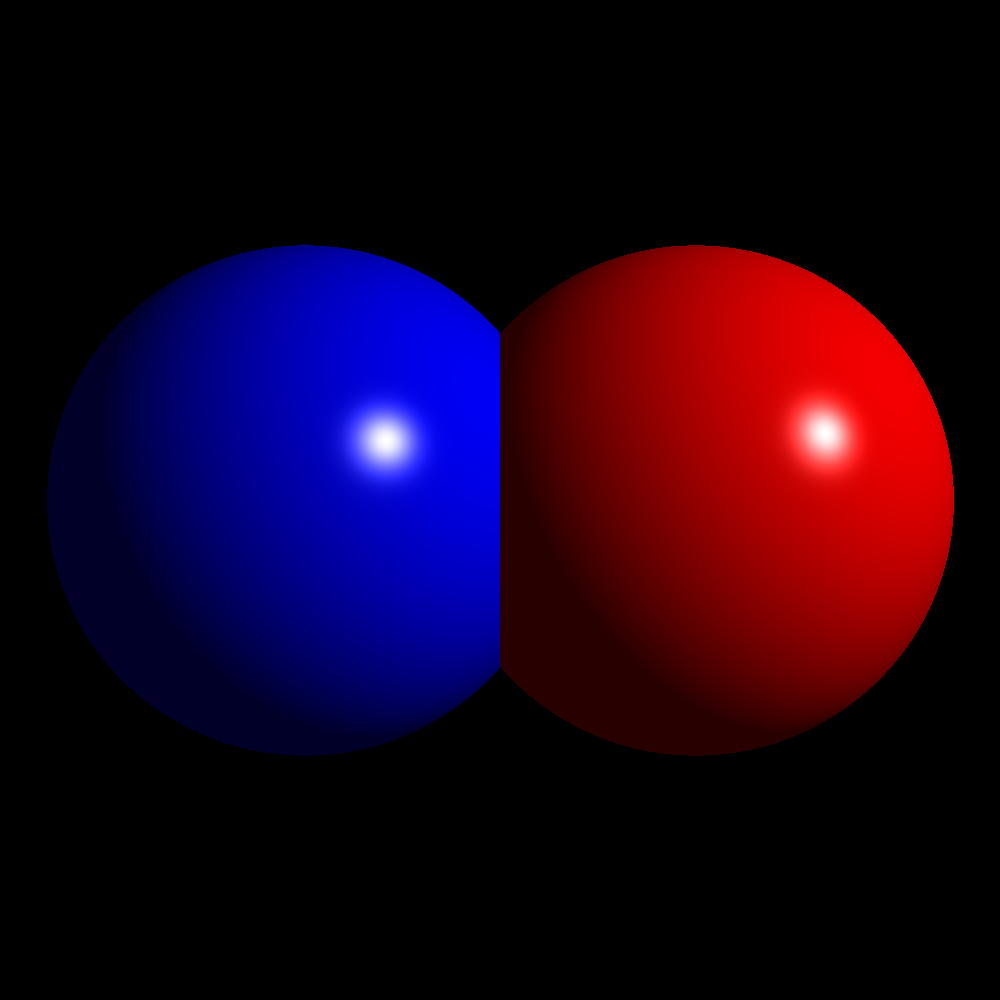
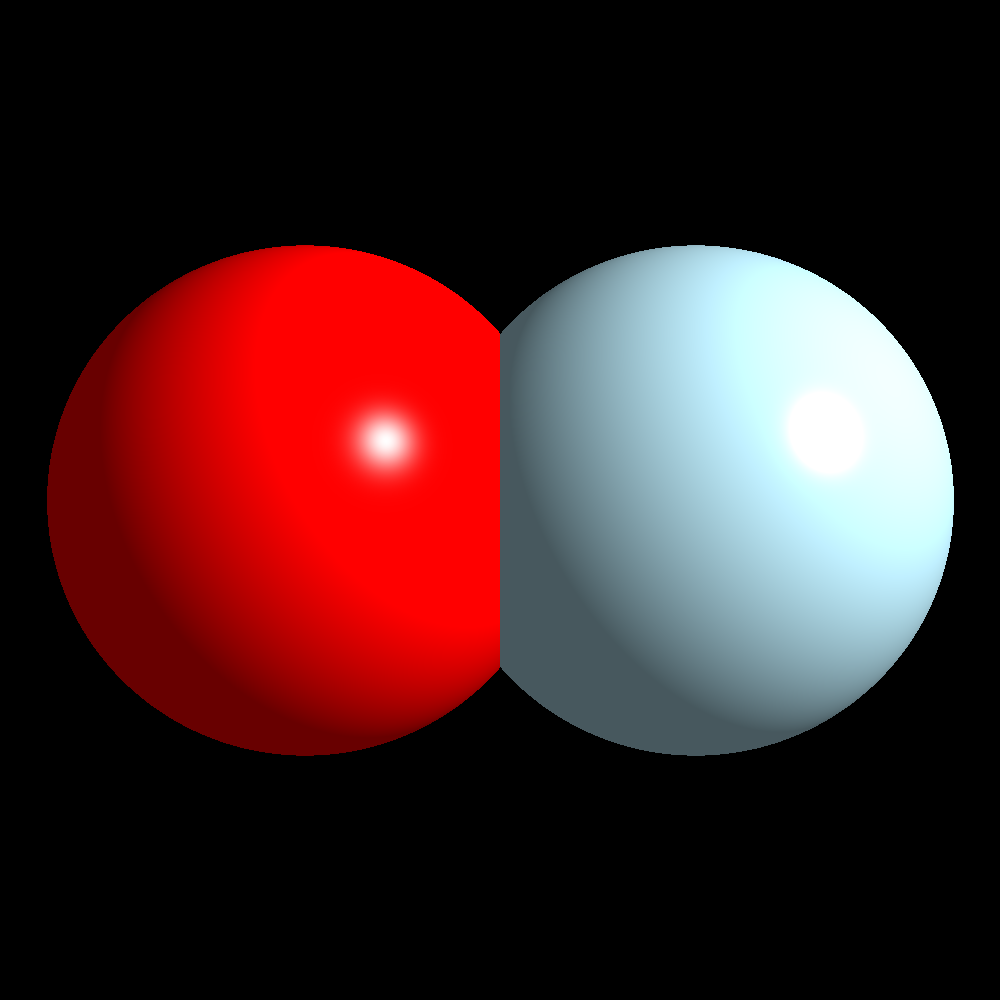
Switch to using System.Drawing Color

diff --git a/src/Tracer.Console/Program.cs b/src/Tracer.Console/Program.cs
@@ -1,24 +1,30 @@
 using System;
 using System.Collections.Generic;
+using System.Drawing;
 using System.IO;
 using SixLabors.ImageSharp;
 using SixLabors.ImageSharp.PixelFormats;
 using Tracer.ImageSharp;
 
-namespace Tracer.Console
+namespace Tracer
 {
     class Program
     {
         static void Main(string[] args)
         {
             AmbientLight.Color = Vector.CreateVector3(0.2, 0.2, 0.2);
+            // AmbientLight.Color = Color.DimGray.ToVector();
 
-            var sphere1 = new Sphere(Vector.CreateVector3(0.8, 0.0, 0), Vector.CreateVector3(1, 1, 1), 150)
+            var sphere1 = new Sphere(
+                Color.LightBlue,
+                Color.White, 150)
             {
                 Name = "Yellow Sphere",
             };
-            sphere1.Model.Translate(-0.75, 0, 0);	
-            var sphere2 = new Sphere(Vector.CreateVector3(0.0, 0, 0.8), Vector.CreateVector3(1, 1, 1), 150)
+            sphere1.Model.Translate(-0.75, 0, 0.0);	
+            var sphere2 = new Sphere(
+                Color.Red,
+                Color.White, 150)
             {
                 Name = "Red Sphere",
             };

diff --git a/src/Tracer/Util.cs b/src/Tracer/Util.cs
@@ -20,6 +20,13 @@ namespace Tracer
         //     Console.WriteLine($"{m.M41}\t{m.M42}\t{m.M43}\t{m.M44}");
         //     Console.WriteLine();
         // }
+
+        public static Vector<double> ToVector(this Color color)
+            => Vector.CreateVector3(
+                (double)color.R / 256,
+                (double)color.G / 256,
+                (double)color.B / 256
+            );
         
         public static Color TraceARay(Ray ray, IEnumerable<Traceable> objects, IEnumerable<Light> lights, Vector<double> eye)
         {
@@ -123,8 +130,8 @@ namespace Tracer
 
         public static double[] SolveQuadraticPositive(double a, double b, double c)
         {
-            var nz = NearlyZero;
-            var ni = NearlyInfinite;
+            // var nz = NearlyZero;
+            // var ni = NearlyInfinite;
             // Linear case
             if (Math.Abs(a) < NearlyZero)
             {

diff --git a/src/Tracer/Sphere.cs b/src/Tracer/Sphere.cs
@@ -1,3 +1,4 @@
+using System.Drawing;
 using System.Linq;
 using MathNet.Numerics.LinearAlgebra;
 
@@ -6,10 +7,10 @@ namespace Tracer
     public class Sphere : Traceable
     {
         public Sphere() { }
-        public Sphere(Vector<double> baseColor, Vector<double> specular, double exponent)
+        public Sphere(Color baseColor, Color specular, double exponent)
         {
-            BaseColor = baseColor;
-            SpecularColor = specular;
+            BaseColor = baseColor.ToVector();
+            SpecularColor = specular.ToVector();
             SpectularExponent = exponent;
         }
 

diff --git a/src/Tracer/Traceable.cs b/src/Tracer/Traceable.cs
@@ -1,3 +1,4 @@
+using System.Drawing;
 using MathNet.Numerics.LinearAlgebra;
 
 namespace Tracer
@@ -6,6 +7,7 @@ namespace Tracer
     {
         public MatrixPair Model { get; private set; } = new MatrixPair();
         public string Name { get; set; }
+
         public Vector<double> BaseColor { get; set; } 
             = Vector<double>.Build.DenseOfArray(new double[] { 1, 1, 1 });
         public Vector<double> SpecularColor { get; set; } 
